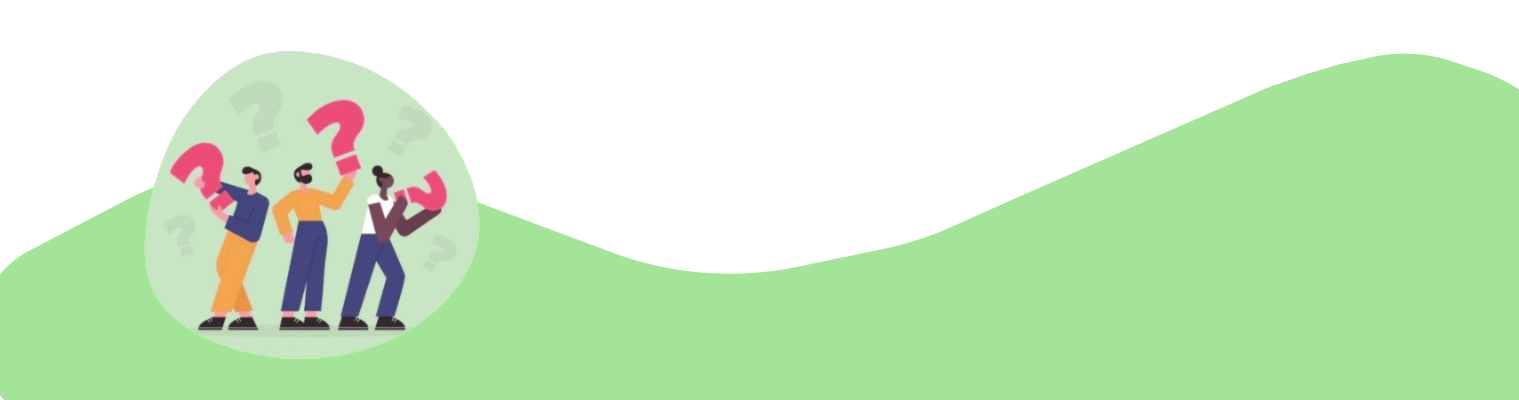
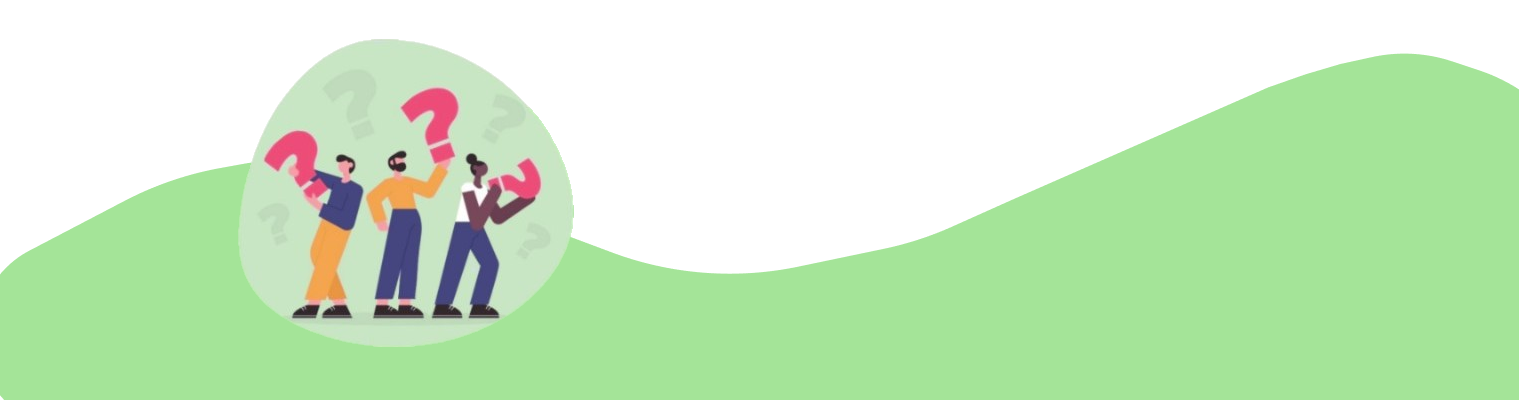
Add files via upload

Changed region(s): [[0.0928, 0.09, 0.4022, 0.9]]

diff --git a/index_responsive.html b/index_responsive.html
@@ -16,7 +16,7 @@
         <div class="container-fluid"> <!-- Ensures full responsiveness -->
             <!-- Logo -->
             <a class="navbar-brand" href="#">
-                <img src="Talkipy_Logo.png" alt="Talkipy" class="img-fluid" style="height: 50px;">
+                <img src="Talkipy_Logo.png" alt="Talkipy" class="img-fluid" style="height: 75px;">
             </a>
     
             <!-- Navbar Toggle Button -->
@@ -40,10 +40,10 @@
     
     
     <div class = "row" id = "hero_section">
-        <div class = "col" id = "image_div">
+        <div class = "col-sm-7" id = "image_div">
             <img src="dyno_hero_section.png" id = "hometop_image">
         </div>
-        <div class = "col" id = "hometop_text">
+        <div class = "col-sm-5" id = "hometop_text">
             <h1 id="hometop_caption"><b>Talks,<br>Warmth<br>& Love</b></h1>
             <h3 id = "hometop_subheading"><b>Opening up is tough but we make it easy for you</b></h3>
             <a class="btn btn-success" id = "free_chat_btn" href="javascript:void(Tawk_API.toggle())" >Free Chat</a>
@@ -56,7 +56,7 @@
         <div class="col" id="text_overlay">
             <h1><b>What is Talkipy</b></h1>
             <br>
-            <p class = "custom_text_width">We've all dealt with issues that we were never able to speak about, we've all had times when we wanted to share something but had no one who would listen...<br> So Talkipy is our solution for you!! 
+            <p id = "custom_text_width">We've all dealt with issues that we were never able to speak about, we've all had times when we wanted to share something but had no one who would listen...<br> So Talkipy is our solution for you!! 
                 Our initiative is a platform where you can find a person to talk, vent, and let go of those bottled-up emotions. <br>
                 There is more! We also provide you with customized sessions with professionals and help you find the most suitable therapist according to your requirements because after all your mental health is our priority!!!
             </p>
@@ -74,8 +74,8 @@
                                 </th>
                                 
                                 <th class = "th_text">
-                                    <p class="bringhead"><h1><b>Free Chat</b></h1></p>
-                                    <h5 class="hometext">An anonymous, instant chat platform, where you will find non-judgemental friends to open up to</h5>
+                                    <p class="bringhead"><h2><b>Free Chat</b></h2></p>
+                                    <h6 class="hometext">An anonymous, instant chat platform, where you will find non-judgemental friends to open up to</h6>
                                 </th>
                             </tr>
                         </table>
@@ -87,8 +87,8 @@
                                     <img class = "svg_img" src="calender.svg" alt="">
                                 </th>
                                 <th class = "th_text">
-                                    <p class="bringhead"> <h1><b>Book a Session</b></h1></p>
-                                    <h5 class="hometext">A scheduled session prepared according to the needs of our client over chat, or voice call</h3>
+                                    <p class="bringhead"> <h2><b>Book a Session</b></h2></p>
+                                    <h6 class="hometext">A scheduled session prepared according to the needs of our client over chat, or voice call</h3>
                                 </th>
                             </tr>
                         </table>
@@ -101,8 +101,8 @@
                                 </th>
                                 
                                 <th class = "th_text">
-                                    <p class="bringhead"><h1><b>A suitable therapist</b></h1></p>
-                                    <h5 class="hometext">Finding it difficult to find a professional psychologist that suits your needs. We got you covered</h3>
+                                    <p class="bringhead"><h2><b>A suitable therapist</b></h2></p>
+                                    <h6 class="hometext">Finding it difficult to find a professional psychologist that suits your needs. We got you covered</h3>
                                 </th>
                             </tr>
                         </table>
@@ -169,7 +169,6 @@
                     It's only you in a safe place with a trustworthy friend.
                     Check out our Privacy Policy here.
                 </p>
-                <br>
                     <a href="Privacy.html" class= "btn btn-warning ">Privacy Policy</a>
                     </div>
     </div>
@@ -194,21 +193,21 @@
                 <div id="myCarousel" class="carousel slide" data-bs-ride="carousel">
                     <!-- Carousel -->
                     <div class="carousel-inner"  id = "carousel-start">
-                        <div class="carousel-item active text-center">
+                        <div class="carousel-item active">
                             <div class="carousel-testimonial-img p-1 rounded-circle m-auto">
                                 <img class="d-block rounded-circle" src="testimonial-face.png" alt="First Slide">
                             </div>
                             <p class="testimonial">Talkipy is an excellent platform to vent out all your troubling emotions. Their approach is simple yet effective. Talkipy provides a confidential, comfortable and friendly space to talk out all the negatives. I would like to congratulate team Talkipy for doing a commendable job in helping people during the times of uncertainty.</p>
                             <p class="overview"><b>Dr. Amreen Fatima</b><br>Mental Health Processional, Psychologist, Career Counsellor & Analyst</p>
                         </div>
-                        <div class="carousel-item text-center">
+                        <div class="carousel-item ">
                             <div class="carousel-testimonial-img p-1 rounded-circle m-auto">
                                 <img class="d-block rounded-circle" src="testimonial-face.png" alt="Second Slide">
                             </div>
                             <p class="testimonial">Talkipy is an excellent platform to vent out all your troubling emotions. Their approach is simple yet effective. Talkipy provides a confidential, comfortable and friendly space to talk out all the negatives. I would like to congratulate team Talkipy for doing a commendable job in helping people during the times of uncertainty.</p>
                             <p class="overview"><b>Dr. Amreen Fatima</b><br> Mental Health Processional, Psychologist, Career Counsellor & Analyst</p>
                         </div>
-                        <div class="carousel-item text-center">
+                        <div class="carousel-item ">
                             <div class="carousel-testimonial-img p-1 rounded-circle m-auto">
                                 <img class="d-block rounded-circle" src="testimonial-face.png" alt="Third Slide">
                             </div>
@@ -251,12 +250,12 @@
                     </div>
                     <p>Subscribe to our Newsletter</h4>
                     <form method="POST" autocomplete="off" name="google-sheet1" onsubmit="return false">
-                        <div class="form-group" style="font-size: .5rem;">
+                        <div class="form-group" >
                             <div class="row align-items-center" id = "newsletter_subscription"> 
-                              <div class="col-auto"> 
+                              <div class="col-auto" id = "emailId"> 
                                 <input type="text" class="form-control" name="EmailId" placeholder="Email address">
                               </div>
-                              <div class="col-auto"> 
+                              <div class="col-auto" id ="send-btn"> 
                                 <button type="submit" name="submit1" class="btn btn-warning">Send</button>
                               </div>
                             </div>
@@ -276,10 +275,10 @@
                     <a class = "nav-link mb-2" href="contact.html"><p>Contact Us</p></a>
                     <a class = "nav-link mb-2" href="Privacy.html"><p>Privacy Policy</p></a>
                     <ul class = "list-inline footer-links">
-                        <a class = "nav-item" href="https://www.instagram.com/talkipy/"><i class="fa fa-instagram" style="font-size:1.953125vw;color:grey; padding: 0;"></i></a>
-                        <a class = "nav-item" href="https://www.facebook.com/talkipy"><i class="fa fa-facebook" style="font-size:1.953125vw; color:grey; padding: 0.9765625vw;"></i></a>                
-                        <a class = "nav-item" href="https://twitter.com/talkipy"><i class="fa fa-twitter" style="font-size:1.953125vw;color:grey; padding: 0.9765625vw;"></i></a> 
-                        <a class = "nav-item" href="https://www.youtube.com/channel/UCJoajhdB-lFPRJxmWFWZtiA"><i class="fa fa-youtube" style="font-size:1.953125vw; color:grey; padding: 1.5208333333333333vw;"></i></a>               
+                        <a class = "nav-item" href="https://www.instagram.com/talkipy/"><i class="fa fa-instagram" style="font-size:1.875rem;color:white; padding: 0;"></i></a>
+                        <a class = "nav-item" href="https://www.facebook.com/talkipy"><i class="fa fa-facebook" style="font-size:1.875rem; color:white; padding: 0.9765625vw;"></i></a>                
+                        <a class = "nav-item" href="https://twitter.com/talkipy"><i class="fa fa-twitter" style="font-size:1.875rem;color:white; padding: 0.9765625vw;"></i></a> 
+                        <a class = "nav-item" href="https://www.youtube.com/channel/UCJoajhdB-lFPRJxmWFWZtiA"><i class="fa fa-youtube" style="font-size:1.875rem; color:white; padding: 1.5208333333333333vw;"></i></a>               
                     </ul>
                 </div>
             </div>

diff --git a/talkipy.css b/talkipy.css
@@ -23,39 +23,45 @@ li{
     padding-right: 1rem;
 }
 #hero_section{
-    display: flex;
     margin-top: 8rem;
     margin-bottom: 10rem;
-
 }
 #image_div{
-    min-width:50%;
+    display: flex;
     align-items: center;
+    justify-content: center;
+    min-width:50%;
     padding-left: 0;
-    padding-right: 0;
-    
+    padding-right: 0; 
 }
 #hometop_image{
     max-width:100%;
-    margin-top:4.9446614583rem;
-    margin-left: 20px;
+    margin-top:0;
+    margin-left:0;
 }
 #hometop_text{
-    margin-left: 10px;
-    margin-top: 9.375rem;
-    min-width:300px;
+    text-align: left;
+    display: flex;
+    flex-direction: column;
+    justify-content: center;
+    margin:0;
+    margin-top:0;
     padding-right: 0;
+    padding-left:0 ;
+    max-width: 100%;
 }
 #hometop_caption{
     font-size: 50px;
 }
 #hometop_subheading{
-    text-align: left;
+    text-align:left;
     color: #28384E; 
     font-size:15px;
 }
 #free_chat_btn{
     color: white;
+    width: auto;
+    align-self: flex-start;
     font-size: 1.25rem;
     border-radius: 30px;
     font-weight: 700;
@@ -89,7 +95,6 @@ li{
     top:2%;
 }
 #custom_text_width{
-    font-size: 1.2em;
     text-align: justify;
     line-height: 1.6;
     margin-top: 20px;
@@ -108,7 +113,7 @@ li{
 }
 .svg_img{
     height:auto ;
-    width:80px;
+    width:4.5rem;
     padding-left: .5208333333333333rem;
     margin-right: 1.25rem;
 }
@@ -171,7 +176,7 @@ li{
 
 .card{
     height: 350px;
-    width: 300px;
+    width: 280px;
     display: flex;
     flex-direction: column;
     justify-content: center;
@@ -211,9 +216,8 @@ li{
     height: auto;
 }
 #still_doubtful_textspace{
-
     position: absolute; 
-    top: 5%; 
+    top: 25%; 
     left:10%; 
     color: #072753; 
     text-align:left;
@@ -252,7 +256,7 @@ li{
 }
 #work_with_us_content{
     font-size: 1rem; 
-    text-align:center; 
+    text-align:left; 
     color: #072753;
 } 
 
@@ -260,10 +264,7 @@ li{
     margin-top: 2rem;
     color: #072753;
 }
-#testimonial_section {
-    display: flex; /* Enable flexbox for the row */
-    align-items: center;
-}
+
 #testimonial_heading{
     text-align: center; 
     font-size:3rem;
@@ -298,7 +299,9 @@ li{
 	border-radius: 50%;
 }
 .carousel .testimonial {
-	padding: 30px 0 10px;
+    text-align: center;
+    padding-left: 20px;
+    padding-right: 20px;
 }
 .carousel .overview {	
 	font-style: italic;
@@ -324,6 +327,7 @@ li{
 }
 .carousel .carousel-indicators {
 	bottom: -40px;
+    width:90%;
 }
 .carousel-indicators li, .carousel-indicators li.active {
 	width: 10px;
@@ -366,6 +370,7 @@ li{
 }
 footer {
     background-color: goldenrod;
+    padding-bottom: 1rem;
     color: white;
 }
 
@@ -400,6 +405,9 @@ footer {
     #hometop_text{
         max-width: 80%;
         text-align: center;
+        display: flex;
+        flex-direction: column;
+        align-items: center;
         margin-top: 1rem;
         padding-left: 0;
         padding-right: 0;
@@ -407,6 +415,9 @@ footer {
     #hometop_subheading{
         text-align: center;
         margin-top: 1rem;
+    }
+    #free_chat_btn{
+        align-self: center;
     }
     .container-fluid {
         clear: both;
@@ -427,13 +438,18 @@ footer {
         display:none;
     }
     #text_overlay{
-        background-color: #A4E498;
         position: relative;
+        background-color: #A4E498;
         width: 100%;
         left:0;
         top:0;
         display: flex;
         flex-direction: column; /* Stack children vertically */
+        text-align: center;
+        align-items: center;
+    }
+    #custom_text_width{
+        max-width: 70%;
         text-align: center;
     }
     #what_we_bring_content{
@@ -443,7 +459,7 @@ footer {
         justify-content: center;
     }
     #what_we_bring_content{
-        height:70%
+        height:70%;
     }
     #girl_texting{
         display: none;
@@ -452,6 +468,7 @@ footer {
         overflow: hidden;
         max-width:100%;
         margin-top: 2rem;
+        margin-bottom: 1rem;
     }
     #our_motto_img{
         display: none;
@@ -464,6 +481,7 @@ footer {
         left:0;
     }
     #stilldoubtful{
+        padding-top: 2rem;
         width:100%;
         display: flex; /* Use Flexbox */
         flex-direction: column; /* Stack content vertically */
@@ -476,7 +494,7 @@ footer {
     #still_doubtful_textspace{
         position: relative;
         left:0;
-        width: 100%;
+        max-width: 70%;
         text-align: center; 
     }
     #work_with_us{
@@ -497,9 +515,24 @@ footer {
         position: relative;
         text-align: center;
     }
+    #work_with_us_content{
+        text-align: center;
+    }
+    .form-group{
+        font-size: .5rem;
+    }
+    
+    #send-btn{
+        margin-top: 1rem;
+    }
 }
 @media only screen and (max-width: 750px){
-
+    #hero_section{
+        margin-top: 5rem;
+    }
+    #what_we_bring_content{
+        margin-left: 0;
+    }
     footer .row {
         flex-direction: column; /* Stacks elements vertically */
     }
